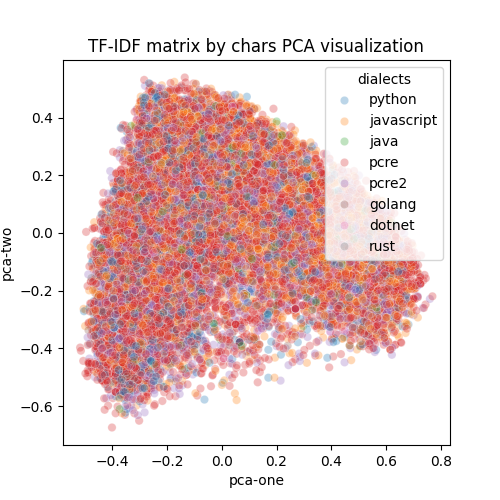
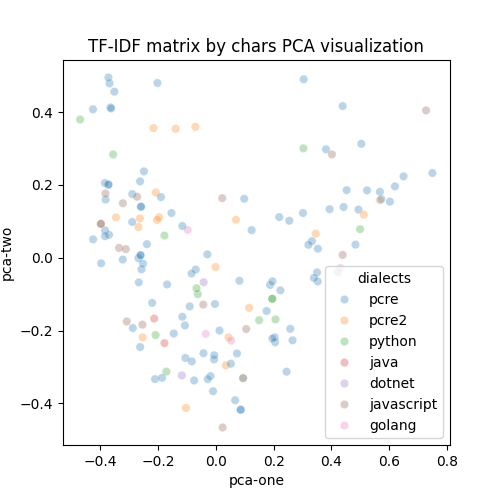
refactor examples structure

diff --git a/research/clustering/README.md b/research/clustering/README.md
@@ -6,59 +6,14 @@ are more similar to each other according to some similarity function than to tho
 
 To run clustering do this:
 ```shell
-python3 clustering.py -v -u
+python3 clustering.py -v -u --algname encoder_name --filter filter_word_for_input_data
 ```
 - -u for update visualizations
 - -v for verbose examples printing
+- --algname: "bert" or "tf_idf"
+- --filter for filtering input data (looking for in description on title regexes)
 
 ## Encoders
 
-First-of-all, choose a encoder for regexes (for vectorize representation).
-
-### TF-IDF as encoder
-
-TF (Term Frequency) measures how often a certain word appears in a given document. Thus, TF measures the importance of a word in the context of a single document.
-IDF (Inverse Document Frequency) measures how unique a word is across a collection of documents. Words that appear in most documents have a low IDF because they do not contribute much information value.
-The TF-IDF formula combines the concepts of TF and IDF to calculate the importance of each word in each document.
-
-Three methods of obtaining TF-IDF vectors are proposed:
-- Tokenization by regular expression symbols
-- Tokenization by regular expression non-terminals
-- Tokenization by custom tokens (lexical analyzer as in compilers)
-
-#### PCA visualization
-<p float="left">
-  <img src="assets/tf_idf/tf_idf_chars_pca.png" width="300" />
-  <img src="assets/tf_idf/tf_idf_non_terminals_pca.png" width="300" />
-  <img src="assets/tf_idf/tf_idf_tokens_pca.png" width="300" />
-</p>
-
-#### UMAP visualization
-<p float="left">
-  <img src="assets/tf_idf/tf_idf_chars_umap.png" width="300" />
-  <img src="assets/tf_idf/tf_idf_non_terminals_umap.png" width="300" />
-  <img src="assets/tf_idf/tf_idf_tokens_umap.png" width="300" />
-</p>
-
-### Kmeans
-
-#### Elbow method
-<p float="left">
-  <img src="assets/tf_idf/tf_idf_chars_elbow.png" width="300" />
-  <img src="assets/tf_idf/tf_idf_non_terminals_elbow.png" width="300" />
-  <img src="assets/tf_idf/tf_idf_tokens_elbow.png" width="300" />
-</p>
-
-#### Silhouette score
-<p float="left">
-  <img src="assets/tf_idf/tf_idf_chars_silhouette.png" width="300" />
-  <img src="assets/tf_idf/tf_idf_non_terminals_silhouette.png" width="300" />
-  <img src="assets/tf_idf/tf_idf_tokens_silhouette.png" width="300" />
-</p>
-
-#### Davies Bouldin score
-<p float="left">
-  <img src="assets/tf_idf/tf_idf_chars_db.png" width="300" />
-  <img src="assets/tf_idf/tf_idf_non_terminals_db.png" width="300" />
-  <img src="assets/tf_idf/tf_idf_tokens_db.png" width="300" />
-</p>
+- TF-IDF as an encoder is shown in <a href="tf_idf_results.md">tf_idf_results.md</a>
+- BERT as an encoder is shown in <a href="bert_results.md">bert_results.md</a>

diff --git a/research/clustering/tf_idf_results.md b/research/clustering/tf_idf_results.md
@@ -1,0 +1,35 @@
+# TF-IDF as encoder
+
+TF (Term Frequency) measures how often a certain word appears in a given document. Thus, TF measures the importance of a word in the context of a single document.
+IDF (Inverse Document Frequency) measures how unique a word is across a collection of documents. Words that appear in most documents have a low IDF because they do not contribute much information value.
+The TF-IDF formula combines the concepts of TF and IDF to calculate the importance of each word in each document.
+
+Three methods of obtaining TF-IDF vectors are proposed:
+- Tokenization by regular expression symbols
+- Tokenization by regular expression non-terminals
+- Tokenization by custom tokens (lexical analyzer as in compilers)
+
+Dataset filter: word *html*
+
+## PCA visualization
+<p float="left">
+  <img src="assets/tf_idf/tf_idf_chars_pca.png" width="300" />
+  <img src="assets/tf_idf/tf_idf_non_terminals_pca.png" width="300" />
+  <img src="assets/tf_idf/tf_idf_tokens_pca.png" width="300" />
+</p>
+
+## UMAP visualization
+<p float="left">
+  <img src="assets/tf_idf/tf_idf_chars_umap.png" width="300" />
+  <img src="assets/tf_idf/tf_idf_non_terminals_umap.png" width="300" />
+  <img src="assets/tf_idf/tf_idf_tokens_umap.png" width="300" />
+</p>
+
+## Kmeans
+
+### Silhouette score
+<p float="left">
+  <img src="assets/tf_idf/tf_idf_chars_silhouette.png" width="300" />
+  <img src="assets/tf_idf/tf_idf_non_terminals_silhouette.png" width="300" />
+  <img src="assets/tf_idf/tf_idf_tokens_silhouette.png" width="300" />
+</p>

diff --git a/research/clustering/bert_results.md b/research/clustering/bert_results.md
@@ -1,0 +1,23 @@
+# BERT as encoder
+
+Dataset filter: word *html*
+
+Use BERT-100k_REGEX as a model.
+<a href="https://huggingface.co/yzimmermann/BERT-100k_REGEX">Link</a> on HuggingFace.
+
+## PCA visualization
+<p float="left">
+  <img src="assets/bert/bert_100k_regex_pca.png" width="300" />
+</p>
+
+## UMAP visualization
+<p float="left">
+  <img src="assets/bert/bert_100k_regex_umap.png" width="300" />
+</p>
+
+## Kmeans
+
+### Silhouette score
+<p float="left">
+  <img src="assets/bert/bert_100k_regex_silhouette.png" width="300" />
+</p>
